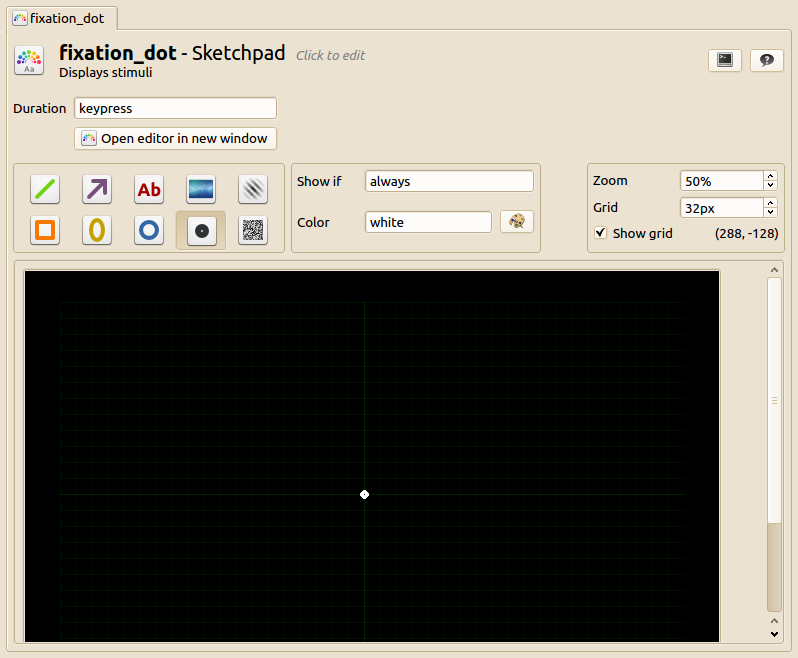
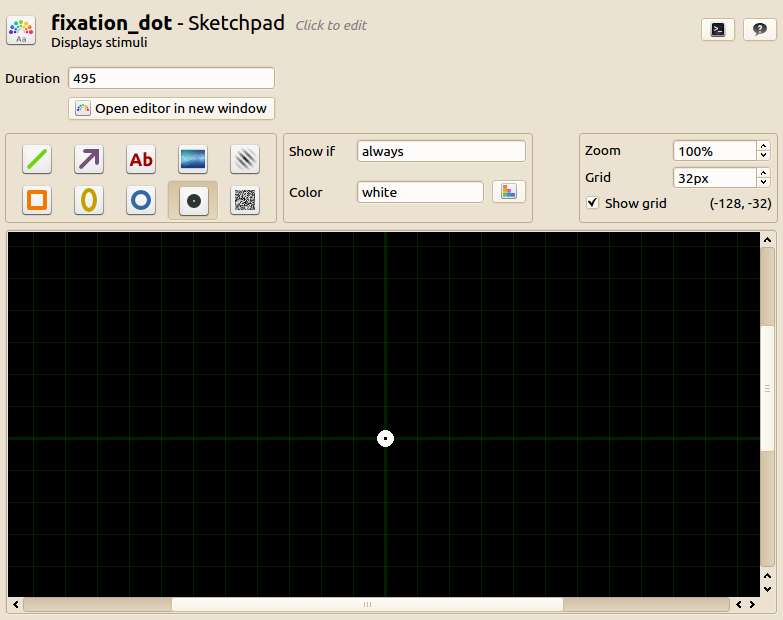
Update rovereto workshop

diff --git a/content/rovereto2014.md b/content/rovereto2014.md
@@ -8,7 +8,7 @@ permalink: /rovereto2014/
 ext_url: /rovereto2014
 ---
 
-This tutorial is part of an OpenSesame workshop that will be held at the Center for Mind/ Brain Sciences at the University of Trento on May 7th, 9:00.
+This tutorial is part of an OpenSesame workshop that will take place at the Center for Mind/ Brain Sciences at the University of Trento on May 7th, 9:00.
 
 %--
 figure:
@@ -37,7 +37,7 @@ toc:
 
 ### Equipment
 
-- University computers with OpenSesame pre-installed will be available during the workshop.
+- University computers on which OpenSesame is pre-installed will be available during the workshop.
 - If you bring your own laptop, please install OpenSesame before the workshop.
 - OpenSesame is available for Windows XP/ 7/ 8, Linux, and Mac OS. If you are running Mac OS, you are advised to verify beforehand that OpenSesame runs properly on your system, because Mac OS support is still experimental.
 - If you have an Android tablet or phone, you can bring it along to run your experiment on a tablet! If you bring an Android device, please install the [OpenSesame runtime for Android] before the workshop.
@@ -54,7 +54,7 @@ You can download the introduction slides from [here][slides].
 
 We will create a simple animal-filled multisensory integration task, in which participants see a picture of a dog, cat, or capybara. In addition, a meowing or barking sound is played. To make things more fun, we will design the experiment so that you can run it on an Android device, using the [OpenSesame runtime for Android]. You will see that this requires hardly any additional effort.
 
-The task is to report whether a dog or a cat is shown, by tapping (or clicking) on the left (dog) or right (cat) side of the screen. No response should be given when a capybara is shown (i.e. those are catch trials). The prediction is simple: Participants should be faster to identify dogs when a barking sound is played, and faster to identify cats when a meowing sound is played. In other words, we expect a multisensory congruency effect. A secondary prediction is that when participants see a capybara, they are more likely to report seeing a dog when they hear a bark, and more likely to report seeing a cat when they hear a meow.
+The participant's task is to report whether a dog or a cat is shown, by tapping (or clicking) on the left (dog) or right (cat) side of the screen. No response should be given when a capybara is shown (i.e. those are catch trials). The prediction is simple: Participants should be faster to identify dogs when a barking sound is played, and faster to identify cats when a meowing sound is played. In other words, we expect a multisensory congruency effect. A secondary prediction is that when participants see a capybara, they are more likely to report seeing a dog when they hear a bark, and more likely to report seeing a cat when they hear a meow.
 
 %--
 figure:
@@ -70,7 +70,7 @@ OpenSesame is available for Windows, Linux, Mac OS (experimental), and Android (
 
 - <http://osdoc.cogsci.nl/>
 
-When you start OpenSesame, you will be given a choice of template experiments, and a list of recently opened experiments (if any).
+When you start OpenSesame, you will be given a choice of template experiments, and a list of recently opened experiments (if any, see %FigStartup).
 
 %--
 figure:
@@ -80,7 +80,7 @@ figure:
   The OpenSesame window on start-up.
 --%
 
-The 'Droid template' provides a good starting point for creating an Android-based experiment. However, in this tutorial we will create the entire experiment from scratch. Therefore, we will continue with the 'default template', which is loaded by default when OpenSesame is launched.
+The 'Droid template' provides a good starting point for creating Android-based experiments. However, in this tutorial we will create the entire experiment from scratch. Therefore, we will continue with the 'default template', which is already loaded when OpenSesame is launched (%FigDefaultTemplate).
 
 %--
 figure:
@@ -176,7 +176,7 @@ For this experiment, we will use images of cats, dogs, and capybaras. We will al
 
 - [/attachments/cats-dogs-capybaras/stimuli.zip](/attachments/cats-dogs-capybaras/stimuli.zip)
 
-Download `stimuli.zip` and extract it somewhere (to your desktop, for example). Next, in OpenSesame, click on the 'Show file pool' button in the main toolbar (or: Menu →View → Show file pool). This will show the file pool, by default on the right side of the window. The easiest way to add the stimuli to the file pool is by dragging them from the desktop (or wherever you have extracted the files to) into the file pool. Alternatively, you can click on the '+' button in the file pool and add files using the file-selection dialog that appears. The file pool will be automatically saved with your experiment if you save your experiment in the `.opensesame.tar.gz` format (which is the default format).
+Download `stimuli.zip` and extract it somewhere (to your desktop, for example). Next, in OpenSesame, click on the 'Show file pool' button in the main toolbar (or: Menu →View → Show file pool). This will show the file pool, by default on the right side of the window. The easiest way to add the stimuli to the file pool is by dragging them from the desktop (or wherever you have extracted the files to) into the file pool. Alternatively, you can click on the '+' button in the file pool and add files using the file-selection dialog that appears. The file pool will automatically be saved with your experiment if you save your experiment in the `.opensesame.tar.gz` format (which is the default format).
 
 After you have added all stimuli, your file pool looks as in %FigStep4.
 
@@ -234,7 +234,7 @@ figure:
 
 ## Step 7: Define the central fixation dot
 
-Click on *fixation_dot* in the overview area. This will open a basic drawing board that you can use to design your stimulus displays. To draw a central fixation dot, first click on the fixation-dot icon (with the small gray circle) and then click on the center of the display, i.e. at position `0, 0`.
+Click on *fixation_dot* in the overview area. This will open a basic drawing board that you can use to design your stimulus displays. To draw a central fixation dot, first click on the fixation-dot icon (with the small gray circle) and then click on the center of the display, i.e. at position (0, 0).
 
 We also need to specify for how long the fixation dot is visible. To do so, change the duration from 'keypress' to 495 ms, in order to specify a 500 ms duration. (See Background box 4 for an explanation.)
 
@@ -291,7 +291,7 @@ For more information about using variables, see:
 
 ## Step 9: Define the animal picture
 
-Open *animal_picture*. This will again open a `sketchpad` drawing board. Now select the image tool by clicking on the button with the aquarium-like icon. Click on the center of the screen (0, 0). The 'Select file from pool' dialog will appear. Select the file `capybara1.png` and click on 'Select'. The capybara will now lazily stare at you from the center of the screen! But of course, we don't always want to show the same capybara, attractive though it may be. Instead, we want to have the image depend on the variables `animal` and `pic_nr` that we have defined in the *block_loop* (Step 5).
+Open *animal_picture*. This will again open a `sketchpad` drawing board. Now select the image tool by clicking on the button with the aquarium-like icon. Click on the center of the screen (0, 0). The 'Select file from pool' dialog will appear. Select the file `capybara1.png` and click on 'Select'. The capybara will now lazily stare at you from the center of the screen. But of course, we don't always want to show the same capybara. Instead, we want to have the image depend on the variables `animal` and `pic_nr` that we have defined in the *block_loop* (Step 5).
 
 We can use the basic same trick as we did for *animal_sound*, although things work slightly differently for images. First, right-click on the capybara and select 'Edit'. This will allow you to edit the following line of OpenSesame script that corresponds to the capybara picture:
 
@@ -335,7 +335,7 @@ figure:
   The `touch_response` item records display taps and mouse clicks and assigns a response value based on a grid.
 --%
 
-In our case, we simply divide the screen into a left and a right side, which means that we have to set the number of columns to 2 and the number of rows to 1 (it is by default). Following the logic shown in %FigTouchResponse, the left side of the display now corresponds to a 1 response, and the right side corresponds to a 2 response. (Note that we are therefore much more liberal than the visual response circles of %FigStep9 suggest.)
+In our case, we simply divide the screen into a left and a right side, which means that we have to set the number of columns to 2 and the number of rows to 1 (it is by default). Following the logic shown in %FigTouchResponse, the left side of the display now corresponds to a 1 response, and the right side corresponds to a 2 response. (Note that we are therefore much more liberal than the visual response circles of %FigStep9 suggest, because we accept taps/ clicks anywhere on the screen.)
 
 Finally, we have to make it possible for participants *not* to respond, because the response should be withheld on capybara trials. To do so, we change the 'Timeout' field from 'infinite' to '2000'. This means that the response will automatically time out after 2000 ms. When this happens, the response will be set to 'None' and the experiment will continue.
 
@@ -439,7 +439,7 @@ __Tip__ -- A test run is executed even faster by clicking the orange 'Run in win
 
 ## Extra (easy): A smarter way to define the correct response
 
-In Step 11, we have defined `correct_response` variable manually. This works, but it takes time and is prone to error. A smarter way is to use an `inline_script` and a bit of deductive logic to determine the correct response for a given trial. First, open *block_loop* and remove the `correct_response` column, because we don't need it anymore. Next, drag an `inline_script` item from the item toolbar to the start of the *trial_sequence*. Open the *prepare* tab of the `inline_script` and add the following script:
+In Step 11, we have defined `correct_response` variable manually. This works, but it takes time and is prone to mistakes. A smarter way is to use an `inline_script` and a bit of deductive logic to determine the correct response for a given trial. First, open *block_loop* and remove the `correct_response` column, because we don't need it anymore. Next, drag an `inline_script` item from the item toolbar to the start of the *trial_sequence*. Open the *prepare* tab of the `inline_script` and add the following script:
 
 {% highlight python %}
 if self.get('animal') == 'dog':
@@ -459,6 +459,21 @@ The script itself is almost human-readable language, at least if you know the fo
 - [/python/about/](/python/about/)
 
 We can summarize the script as follows: If the picture is a dog, the correct response is 1. But if the picture is a cat, the correct response is 2. If the picture is neither (and by exclusion must therefore be a capybara), the correct response is no response, or a timeout (indicated by 'None').
+
+Finally, let's consider the following variation of the script above:
+
+{% highlight python %}
+if self.get('animal') == 'dog':
+	exp.set('correct_response', 1)
+elif self.get('animal') == 'cat':
+	exp.set('correct_response', 2)
+elif self.get('animal') == 'capybara':
+	exp.set('correct_response', None)
+else:
+	raise Exception('%s is not a valid animal!' % self.get('animal'))
+{% endhighlight %}
+
+Here we allow for the possibility an animal is neither a dog, nor a cat, nor a capybara. And if we encounter such an exotic creature, we abort the experiment with an error message, by raising an `Exception`. This may feel like a silly thing to do, because we have programmed the experiment ourselves, and we (think we) know with 100% certainty that it includes only cats, dogs, and capybaras. But it is nevertheless good practice to add these kinds of sanity checks to your experiment, to protect yourself from typos, logical errors, etc. The more complex your experiment becomes, the more important these kinds of checks are. Never assume that your code is bug-free!
 
 ## Extra (medium): Add breaks and per-block feedback
 
@@ -507,7 +522,7 @@ pic_nr = self.get('pic_nr')
 # ... use these variables to determine the picture filename (e.g., 'cat1.png') ...
 picture_name = '%s%d.png' % (animal, pic_nr)
 # ... and get the full path to the picture in the file pool.
-picture_path = exp.get_file(picture_path)
+picture_path = exp.get_file(picture_name)
 # Now create a canvas and draw the animal picture on it
 my_animal_canvas = canvas(exp)
 my_animal_canvas.image(picture_path)
@@ -527,8 +542,9 @@ response_timeout = 3000
 # Show the canvas with the animal picture and remember the presentation
 # timestamp
 target_timestamp = my_animal_canvas.show()
-# Collect a mouseclick (= touch on Android) with a timeout of 500 ms
-button, position, response_timestamp = my_mouse.get_click( \
+# Collect a mouseclick (= touch on Android) with a timeout specified in
+# animal_duration
+button, position, response_timestamp = my_mouse.get_click(
 	timeout=animal_duration)
 # If the response time was less than animal_duration, sleep for the remainder of
 # the time to make sure that the animal picture always stays on the screen for
@@ -540,7 +556,7 @@ my_blank_canvas.show()
 # If the previous response collection timed out (i.e. button == None), then we
 # need to poll for a mouse click again.
 if button == None:
-	button, position, response_timestamp = my_mouse.get_click( \
+	button, position, response_timestamp = my_mouse.get_click(
 		timeout=response_timeout-animal_duration)
 # If both the first and the second attempt to get a mouseclick timed out, we
 # set the response to 'None' ...
